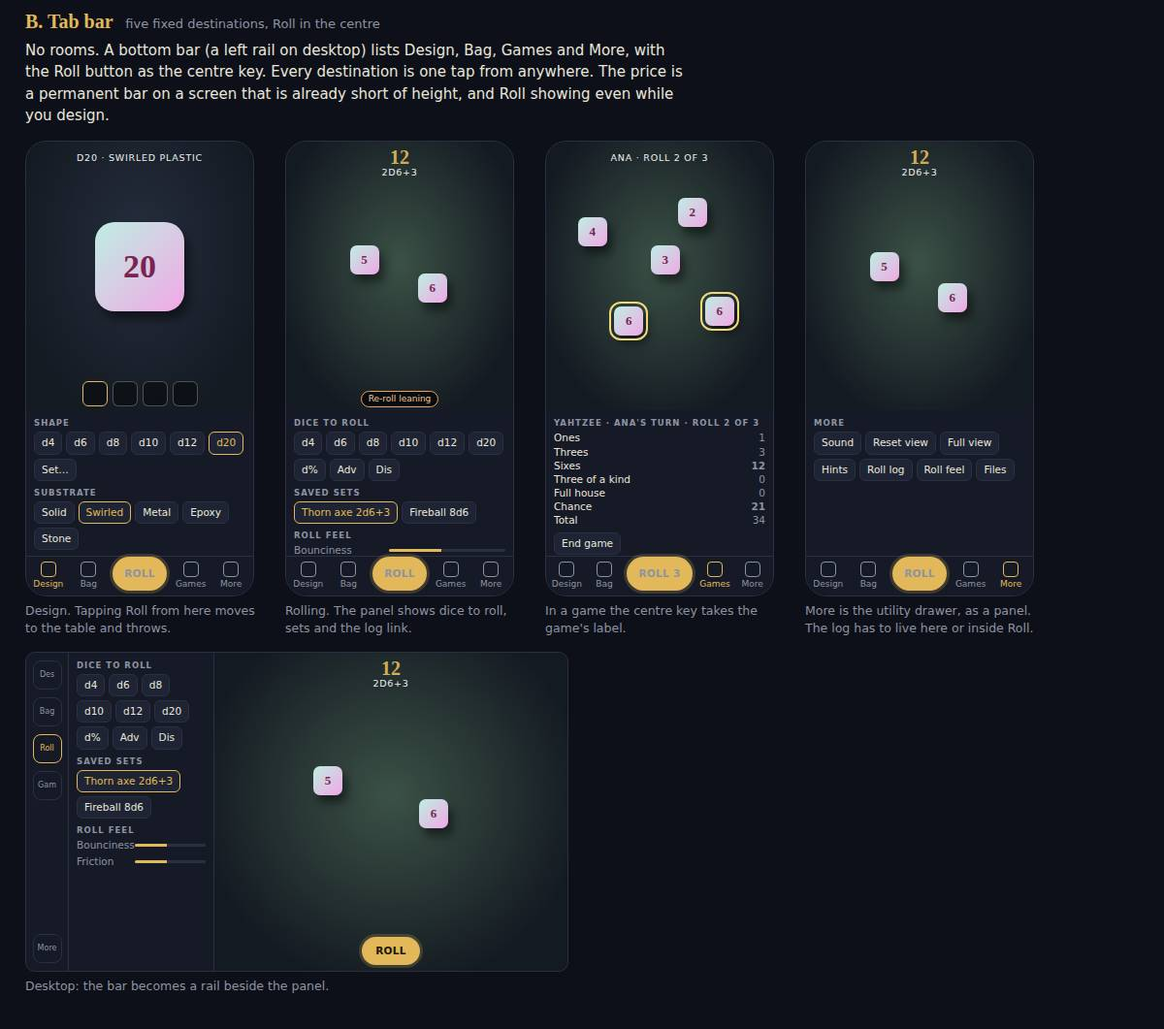
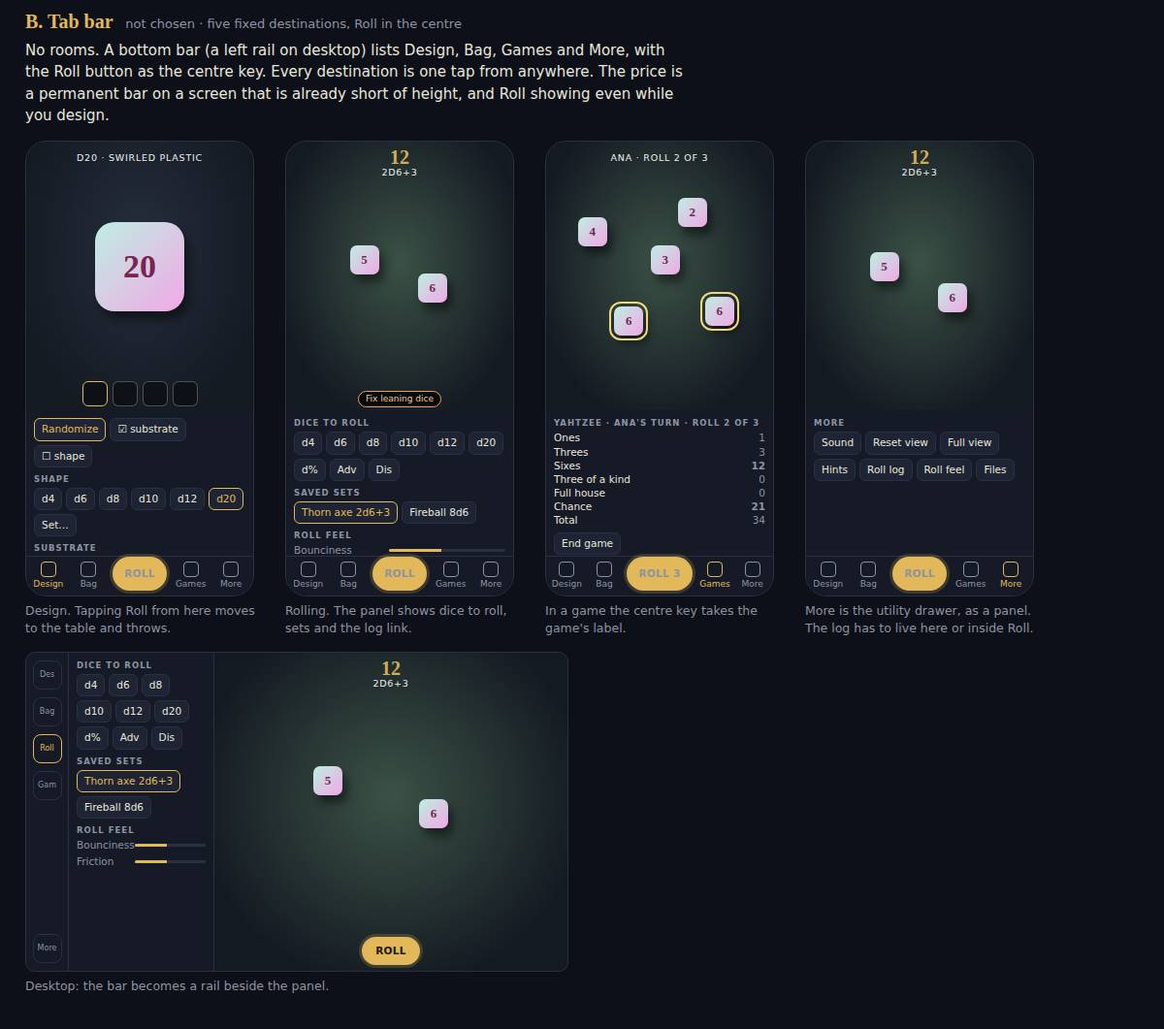
Navigation migration plan for Two rooms in 8 slices; owner decisions recorded (PD-142.38)

Changed region(s): [[0.0308, 0.4043, 0.2158, 0.5598], [0.1233, 0.0, 0.4008, 0.0311], [0.3083, 0.3732, 0.37, 0.4043]]

diff --git a/docs/design/ui-navigation-mockups/index.html b/docs/design/ui-navigation-mockups/index.html
@@ -51,7 +51,7 @@ figure{margin:0;max-width:100%}figure.wide{width:560px}figcaption{font-size:12.5
 <p class="lead">PD-142.38. Three ways to arrange the same app. Each frame is a sketch of layout and wording, not final styling. The gold button is the only roll control in its frame. The paired circles mark the one utility drawer.</p>
 <div class="key">
 <div><b>Top strip</b>Where you are, the die name or total or game status, and the drawer. Hold the middle for the top-down look, as game mode does today.</div>
-<div><b>Dock</b>One gold primary action per screen. It names what it will do: "Roll 2d6+3", "Roll 3 dice", "Randomize".</div>
+<div><b>Dock</b>The one gold Roll button, with what it will throw beside it. In a game it takes the game's label: "Roll 3".</div>
 <div><b>Drawer (paired circles)</b>Sound, pause spin, reset camera, full view, hints. Opens as a wide pill, then slides shut.</div>
 </div>
 <div id="out"></div>
@@ -62,7 +62,7 @@ const tabs=(l,on)=>`<div class="tabs">${l.map((t,i)=>`<span class="${i===on?'on'
 const dice=(l)=>l.map(([x,y,n,h])=>`<span class="die${h?' held':''}" style="left:${x}%;top:${y}%">${n}</span>`).join('');
 const D5=[[14,18,4],[58,10,2],[70,52,6,1],[30,56,6,1],[46,30,3]], D2=[[28,30,5],[58,44,6]];
 const P={
- look:`<h4>Shape</h4><div class="g"><span>d4</span><span>d6</span><span>d8</span><span>d10</span><span>d12</span><span class="on">d20</span><span>Set…</span></div><h4>Substrate</h4><div class="g"><span>Solid</span><span class="on">Swirled</span><span>Metal</span><span>Epoxy</span><span>Stone</span></div><h4>Colours</h4><div class="sl">Polish<i></i></div>`,
+ look:`<div class="g"><span style="border-color:var(--gold);color:var(--gold)">Randomize</span><span>☑ substrate</span><span>☐ shape</span></div><h4>Shape</h4><div class="g"><span>d4</span><span>d6</span><span>d8</span><span>d10</span><span>d12</span><span class="on">d20</span><span>Set…</span></div><h4>Substrate</h4><div class="g"><span>Solid</span><span class="on">Swirled</span><span>Metal</span><span>Epoxy</span><span>Stone</span></div><h4>Colours</h4><div class="sl">Polish<i></i></div>`,
  table:`<h4>Dice to roll</h4><div class="g"><span>d4</span><span>d6</span><span>d8</span><span>d10</span><span>d12</span><span>d20</span><span>d%</span><span>Adv</span><span>Dis</span></div><h4>Saved sets</h4><div class="g"><span class="on">Thorn axe 2d6+3</span><span>Fireball 8d6</span></div><h4>Roll feel</h4><div class="sl">Bounciness<i></i></div><div class="sl">Friction<i></i></div>`,
  score:`<h4>Yahtzee · Ana's turn · roll 2 of 3</h4><div class="sc"><span>Ones</span><span>1</span><span>Threes</span><span>3</span><span>Sixes</span><span class="pk">12</span><span>Three of a kind</span><span>0</span><span>Full house</span><span>0</span><span>Chance</span><span class="pk">21</span><span>Total</span><span>34</span></div><div class="g" style="margin-top:6px"><span>End game</span></div>`,
  bag:`<h4>My bag · 4 designs</h4><div class="g"><span class="on">Design 1</span><span>Jade d20</span><span>Brass set</span><span>+ Add</span></div><h4>Sets</h4><div class="g"><span>Thorn axe 2d6+3 ✎</span><span>Fireball 8d6 ✎</span><span>+ New set</span></div>`,
@@ -73,30 +73,31 @@ const mat=(cls,top,body,bottom)=>`<div class="mat ${cls}">${top}<div class="spac
 const fig=(cls,html,cap)=>`<figure class="${cls==='dk'?'wide':''}"><div class="${cls}">${html}</div><figcaption>${cap}</figcaption></figure>`;
 const dockRoll=`<div class="dock"><span class="fld">2d6+3 · Thorn axe</span><span class="go">ROLL</span></div>`;
 const dockGame=`<div class="dock"><span class="fld">2 held · tap dice to hold</span><span class="go">ROLL 3</span></div>`;
-const dockRand=`<div class="dock"><span class="sec">↶</span><span class="sec">↷</span><span style="flex:1"></span><span class="go">RANDOMIZE</span></div>`;
+const dockRand=`<div class="dock"><span class="sec">↶</span><span class="sec">↷</span><span class="shelf" style="flex:1;justify-content:flex-end;padding:0"><span class="on"></span><span></span><span></span><span style="display:grid;place-items:center;border-style:dashed;color:#fff">+</span></span></div>`;
 const S=[];
-S.push(`<h2>A. Two rooms <span class="tag">recommended</span><small>Design | Play switch, tabs per room, one dock</small></h2>
-<p>The owner's split, completed into a full model. One switch picks the room. Each room has three tabs in the panel slot (the phone's Settings | Scorecard slot, generalised). The dock holds the room's one gold action. Every screen is one switch plus one tab away.</p><div class="row">`
-+fig('ph',mat('show',strip(seg('Design','Play',0),'D20 · SWIRLED PLASTIC'),'<span class="die big">20</span>',shelf+dockRand)+tabs(['Look','Bag','Sets'],0)+`<div class="panel">${P.look}</div>`,'Design room. Randomize is the gold action here, so no Roll button shows. Shelf stays as the quick design switcher.')
-+fig('ph',mat('',strip(seg('Design','Play',1),'<b>12</b>2D6+3'),dice(D2),'<div class="chips"><span>Re-roll leaning</span></div>'+dockRoll)+tabs(['Table','Games','Log'],0)+`<div class="panel">${P.table}</div>`,'Play room, free rolling. Die chips and saved sets load the dock; the one Roll button throws. Flick, shake, R and Enter stay as gestures.')
+S.push(`<h2>A. Two rooms <span class="tag">chosen by the owner</span><small>Design | Play switch, tabs per room, one dock</small></h2>
+<p>The owner's split, completed into a full model. One switch picks the room. Each room has three tabs in the panel slot (the phone's Settings | Scorecard slot, generalised). The dock holds the one gold Roll button in the Play room; the Design room's row holds Undo, Redo and the shelf. Every screen is one switch plus one tab away.</p><div class="row">`
++fig('ph',mat('show',strip(seg('Design','Play',0),'D20 · SWIRLED PLASTIC'),'<span class="die big">20</span>',dockRand)+tabs(['Look','Bag','Sets','⌄'],0)+`<div class="panel">${P.look}</div>`,'Design room. No Roll button. Undo, Redo and the shelf with its [+] slot share one row on the mat. Randomize is in the Look tab. The ⌄ at the end of the tab row hides the pane.')
++fig('ph',mat('',strip(seg('Design','Play',1),'<b>12</b>2D6+3'),dice(D2),'<div class="chips"><span>Fix leaning dice</span></div>'+dockRoll)+tabs(['Table','Games','Log'],0)+`<div class="panel">${P.table}</div>`,'Play room, free rolling. Die chips and saved sets load the dock; the one Roll button throws. Flick, shake, R and Enter stay as gestures.')
 +fig('ph',mat('',strip(seg('Design','Play',1),'ANA · ROLL 2 OF 3'),dice(D5),dockGame)+tabs(['Table','Scorecard','Log'],1)+`<div class="panel">${P.score}</div>`,'In a game. The same dock button becomes the game\'s roll ("Roll 3"); Bank or Cash out sit to its left. The scorecard has no Roll button of its own.')
 +fig('ph',mat('',strip(seg('Design','Play',1),'<b>12</b>2D6+3'),'<span class="pill" style="position:absolute;right:6px;top:2px;z-index:2"><span>Sound</span><span>Reset view</span><span>Full view</span><span>Hints</span></span>'+dice(D2),dockRoll)+tabs(['Table','Games','Log'],0)+`<div class="panel">${P.table}</div>`,'Drawer open: a wide pill from the paired circles. Pause spin joins it in the Design room. It slides shut by itself.')
++fig('ph',mat('',strip(seg('Design','Play',1),'<b>48</b>20D4'),dice([[10,8,3],[30,5,1],[52,9,4],[74,6,2],[16,24,4],[40,22,1],[64,26,3],[80,40,2],[24,42,4,1],[50,44,3,1],[8,58,1],[36,60,2],[66,58,4],[20,76,2],[54,78,1]]),'<div class="chips"><span>Fix leaning dice</span><span>2 held · release</span></div>'+dockRoll+'<div style="text-align:center;color:#fff;opacity:.8;padding:0 0 3px;font-size:11px">⌃</div>'),'Full view: the pane is hidden and the mat fills the screen. Strip, dock and drawer stay. The ⌃ handle at the bottom edge (or Full view in the drawer, or H) brings the pane back.')
 +`</div><div class="row">`
 +fig('dk',`<div class="side"><div style="padding:8px 8px 4px">${seg('Design','Play',1)}</div>${tabs(['Table','Games','Log'],0)}<div class="panel">${P.table}</div></div><div class="main">${mat('',strip('','<b>12</b>2D6+3'),dice(D2),'<div class="dock" style="justify-content:center"><span class="fld" style="flex:0 1 240px">2d6+3 · Thorn axe</span><span class="go">ROLL</span></div>')}</div>`,'Desktop. The switch and tabs head the side panel; the mat keeps only the strip, the dock and the drawer. The floating scorecard and floating log move into the tabs.')
 +`</div>`);
-S.push(`<h2>B. Tab bar <small>five fixed destinations, Roll in the centre</small></h2>
+S.push(`<h2>B. Tab bar <small>not chosen · five fixed destinations, Roll in the centre</small></h2>
 <p>No rooms. A bottom bar (a left rail on desktop) lists Design, Bag, Games and More, with the Roll button as the centre key. Every destination is one tap from anywhere. The price is a permanent bar on a screen that is already short of height, and Roll showing even while you design.</p><div class="row">`
 +fig('ph',mat('show',strip('','D20 · SWIRLED PLASTIC',''),'<span class="die big">20</span>',shelf)+`<div class="panel">${P.look}</div><div class="bar"><span class="on">Design</span><span>Bag</span><span class="go">ROLL</span><span>Games</span><span>More</span></div>`,'Design. Tapping Roll from here moves to the table and throws.')
-+fig('ph',mat('',strip('','<b>12</b>2D6+3',''),dice(D2),'<div class="chips"><span>Re-roll leaning</span></div>')+`<div class="panel">${P.table}</div><div class="bar"><span>Design</span><span>Bag</span><span class="go">ROLL</span><span>Games</span><span>More</span></div>`,'Rolling. The panel shows dice to roll, sets and the log link.')
++fig('ph',mat('',strip('','<b>12</b>2D6+3',''),dice(D2),'<div class="chips"><span>Fix leaning dice</span></div>')+`<div class="panel">${P.table}</div><div class="bar"><span>Design</span><span>Bag</span><span class="go">ROLL</span><span>Games</span><span>More</span></div>`,'Rolling. The panel shows dice to roll, sets and the log link.')
 +fig('ph',mat('',strip('','ANA · ROLL 2 OF 3',''),dice(D5),'')+`<div class="panel">${P.score}</div><div class="bar"><span>Design</span><span>Bag</span><span class="go">ROLL 3</span><span class="on">Games</span><span>More</span></div>`,'In a game the centre key takes the game\'s label.')
 +fig('ph',mat('',strip('','<b>12</b>2D6+3',''),dice(D2),'')+`<div class="panel" style="height:150px"><h4>More</h4><div class="g"><span>Sound</span><span>Reset view</span><span>Full view</span><span>Hints</span><span>Roll log</span><span>Roll feel</span><span>Files</span></div></div><div class="bar"><span>Design</span><span>Bag</span><span class="go">ROLL</span><span>Games</span><span class="on">More</span></div>`,'More is the utility drawer, as a panel. The log has to live here or inside Roll.')
 +`</div><div class="row">`
 +fig('dk',`<div class="rail"><span>Des</span><span>Bag</span><span class="on">Roll</span><span>Gam</span><span style="margin-top:auto">More</span></div><div class="side" style="width:150px"><div class="panel">${P.table}</div></div><div class="main">${mat('',strip('','<b>12</b>2D6+3',''),dice(D2),'<div class="dock" style="justify-content:center"><span class="go">ROLL</span></div>')}</div>`,'Desktop: the bar becomes a rail beside the panel.')
 +`</div>`);
-S.push(`<h2>C. Clear mat <small>one stack menu, one Roll button, panel on demand</small></h2>
+S.push(`<h2>C. Clear mat <small>not chosen · one stack menu, one Roll button, panel on demand</small></h2>
 <p>The mat owns the screen. One stack button opens every destination and utility; the panel appears only as a sheet when asked for. The least clutter, and the best for the 20-dice crowding case, but every screen is two taps away and nothing tells a new user that the bag or games exist until the pill has slid shut.</p><div class="row">`
 +fig('ph',mat('show',strip('<span class="pill"><span>Design</span><span>Bag</span><span>Games</span><span>Log</span><span>More</span></span>','',''),'<span class="die big">20</span>','<div class="dock" style="justify-content:center"><span class="go">ROLL</span></div>'),'First seconds: the stack shows as a wide pill, then slides to the paired circles.')
-+fig('ph',mat('',strip(stack,'<b>48</b>20D4',''),dice([[10,12,3],[30,8,1],[52,14,4],[74,10,2],[16,34,4],[40,32,1],[64,36,3],[80,56,2],[24,58,4,1],[50,60,3,1],[8,78,1],[36,80,2],[66,78,4]]),'<div class="chips"><span>Re-roll leaning</span><span>2 held · release</span></div><div class="dock"><span class="fld">20d4</span><span class="go">ROLL</span></div>'),'Rolling 20d4: the whole screen is mat. Two controls and the result.')
++fig('ph',mat('',strip(stack,'<b>48</b>20D4',''),dice([[10,12,3],[30,8,1],[52,14,4],[74,10,2],[16,34,4],[40,32,1],[64,36,3],[80,56,2],[24,58,4,1],[50,60,3,1],[8,78,1],[36,80,2],[66,78,4]]),'<div class="chips"><span>Fix leaning dice</span><span>2 held · release</span></div><div class="dock"><span class="fld">20d4</span><span class="go">ROLL</span></div>'),'Rolling 20d4: the whole screen is mat. Two controls and the result.')
 +fig('ph',mat('',strip(stack,'<b>12</b>2D6+3',''),`<div class="sheet"><span>Design</span><span>Bag &amp; sets</span><span>Games</span><span>Roll log</span><span>Sound</span><span>Reset view</span><span>Hints</span><span>Settings</span></div>`+dice(D2),dockRoll),'Stack open: destinations and utilities in one grid.')
 +fig('ph',mat('',strip(stack,'ANA · ROLL 2 OF 3',''),dice(D5),dockGame)+`<div class="panel" style="border-top:1px solid var(--line)">${P.score}</div>`,'A game brings its scorecard up as a half sheet; drag it down for the full mat.')
 +`</div><div class="row">`

diff --git a/docs/design/ui-navigation-plan.md b/docs/design/ui-navigation-plan.md
@@ -1,0 +1,142 @@
+# Navigation migration plan: Two rooms (PD-142.38, deliverable 3)
+
+Status: 2026-11-14. The owner chose proposal A from [ui-navigation-proposals.md](ui-navigation-proposals.md). This plan turns it into slices that each land on `v4` alone and leave the app working. Evidence and control names (R1-R12, D1-D11) are from [ui-controls-audit.md](ui-controls-audit.md). Picture: [ui-navigation-mockups/a-two-rooms.jpg](ui-navigation-mockups/a-two-rooms.jpg).
+
+## Owner decisions (2026-11-14)
+
+1. **Two rooms**: one switch, **Design | Play**. It changes room and never throws dice.
+2. **Full view** is required: a collapse handle on the pane (right end of the tab row on phone, panel edge on desktop) hides the side/bottom pane; a matching handle at the screen edge brings it back. "Full view" is also in the drawer and on the H key. Strip, dock and drawer stay visible.
+3. **Die chips load, they do not throw.** Tap d20 loads a d20, tap again makes 2d20. Only the dock's Roll button throws.
+4. **Desktop scorecard** moves into the left panel's Scorecard tab. Nothing floats over the mat.
+5. **Randomize is not a mat action.** It stays in the Look tab with its substrate/shape checkboxes.
+6. **Undo and Redo sit on the mat in the Design room**, always available there (full view included), on one row with the shelf. Not shown in the Play room; Ctrl+Z works everywhere.
+7. **The shelf keeps its [+] slot** at the end. "Blank" and "Random" both open the same draft, differing only in the starting look.
+
+## Target layout
+
+| Part | Design room | Play room, free roll | Play room, game |
+|---|---|---|---|
+| Top strip, left | Design / Play switch (phone). On desktop the switch heads the side panel | same | same; a dot on Play while a game runs and you are in Design |
+| Top strip, middle (hold = top-down) | die name | total, formula under it | game status; mat total hidden |
+| Top strip, right | drawer | drawer | drawer |
+| Mat bottom row | Undo, Redo, shelf, [+] | dock: formula box + gold **Roll** | dock: game actions (Bank, Cash out) + hint + gold **Roll N** |
+| Above the row | none | result chips: "Fix leaning dice", "N held · release" | same |
+| Tabs | Look · Bag · Sets | Table · Games · Log | Table · Scorecard · Log |
+| Round mat buttons | none | none | none |
+
+Drawer contents (paired-circles button; opens as a wide pill, then slides shut): Sound, Reset view, Full view, Hints, and Pause spin in the Design room.
+
+Tab contents:
+
+| Tab | Holds (from today's UI) |
+|---|---|
+| Look | Randomize + options, Shape, Custom set dice, Substrate, Colours, Finish, Numbers, Relief, Filigree, Showcase spin, Export image, design name, Save/Load design |
+| Bag | design tiles with menus, + Add, Save/Load/Copy bag, "bag modified" state. Phone: an expand control opens today's full-screen sheet |
+| Sets | saved sets list, set editor, "Save the current dice as a set" |
+| Table | Dice to roll (chips incl. Adv, Dis), Saved sets (tap = load), Roll feel and sound, Shake to roll |
+| Games / Scorecard | setup; while playing: scorecard, game actions that are not Roll, End game, Rules |
+| Log | roll log with Copy, Save, Clear, roller name, labels, initiative (PD-142.14.1.8) |
+
+Keys: R and Enter = press the dock button. Space = Randomize in the Design room only. H = Full view. T = top-down. Double-click still resets the view.
+
+## Rules for every slice
+
+- One lane edits one region; post `TOUCHING` first. Lanes: **games-ui** owns mat, strip, dock, room switch, game wiring. **settings** owns the panel, tabs, drawer, quick bar, notation. **guide** owns `docs/guide/`. **design** (this lane) reviews each slice against this plan and keeps the plan current.
+- Per-feature tests only; the integrator runs a checkpoint after slices 3, 5 and 7.
+- Element ids stay where a control survives (`#snd`, `#logpanel`, `#gamepanel`, `#scorepane`, `#paneltabs`). When a control is removed, its id goes in the same slice as the spec change.
+- No slice may add a round mat button or a second roll button, even temporarily.
+
+## Slices
+
+| # | Slice | Lane | Depends on |
+|---|---|---|---|
+| 0 | Navigation test helpers | settings | none |
+| 1 | Utility drawer, Reset view, Full view | settings | 0 |
+| 2 | Dock with the one Roll button (free roll) | games-ui | 0 |
+| 3 | Game roll moves into the dock | games-ui | 2 |
+| 4 | Top strip and the Design / Play switch | games-ui | 2 |
+| 5 | Panel sorted into room tabs | settings | 1, 4 |
+| 6 | Scorecard, log and bag into tabs; last round buttons go | games-ui, then settings | 3, 5 |
+| 7 | Duplicate cleanup, guide refresh | settings, guide | 6 |
+
+Slices 1 and 2 can run in parallel (different lanes, different regions). 3 and 4 are both games-ui and run in that order.
+
+### 0. Navigation test helpers (test code only)
+
+Add to `tests/helpers/app.mjs`: `nav.toPlay()`, `nav.toDesign()`, `nav.openBag()`, `nav.openGames()`, `nav.openLog()`, `nav.openDrawer()`, `nav.roll()`, `nav.fullView(on)`, each wrapping today's selector. Switch the specs and `scripts/guide-shots.mjs` to them. Later slices then change one helper instead of many specs.
+
+- Specs touched: the 5 using `#mode`, 3 `#gamesbtn`, 4 `#bagbtn`, 2 `#logbtn`, 1 `#layout`, 2 `#snd`, 1 `#spinbtn`, and `#gamepanel button.big` where it means "roll" (8 specs).
+- Done when: no spec outside the helper names those selectors; the touched specs pass unchanged.
+
+### 1. Utility drawer, Reset view, Full view
+
+- Build the drawer per [ui-notes.md](ui-notes.md): wide pill on first show in a session, slides to the paired-circles button; tap to reopen; closes on outside tap.
+- Move Sound, Hints, Pause spin and Layout into it (keep `#snd`, `#info`, `#spinbtn` ids on the items). Pause spin shows only in the Design room.
+- New **Reset view** item calling the same code as double-click (angle and zoom of the current view).
+- **Full view**: one state replacing "hide settings" and "calm". Add the collapse handle on the pane and the restore handle at the screen edge. H toggles it. The long-press on the layout button goes.
+- Remove the panel's "Sound effects" checkbox (D3); volume and sound-set controls stay.
+- Round buttons left after this slice: Games, Bag, Log, Mode.
+- Tests: new `nav-drawer.spec.mjs` (pill then button, item count never 1, Reset view restores az/el/zoom, Full view hides the pane on both sizes and both handles restore it, drawer reachable in Full view). Update `nav.openDrawer`, `nav.fullView`, sound spec.
+
+### 2. Dock with the one Roll button (free roll)
+
+- New dock row at the bottom of the mat in roll view: the quick bar's formula box plus one gold button `#rollbtn`. Empty box = the current dice; placeholder shows what is loaded ("2d6+3 · Thorn axe").
+- Die chips leave the dock. Until slice 5 gives them the Table tab, they sit at the top of the roll-view panel. A chip tap loads (adds one die of that type to the box); it does not throw. Adv/Dis join the chips and lose the "Roll..." titles.
+- Set lightning button and "Open and roll now" become "Open" (load and go to the Play room, no throw) (R10, R11).
+- "Re-roll leaning" is reworded "Fix leaning dice" (R5).
+- The panel switch's Roll half stops re-rolling in roll view (R1 becomes a pure switch).
+- R, Enter in the box, flick and shake all go through the same function as `#rollbtn`.
+- Fixes PD-142.40's clipped quick bar on phone: the row is a box and a button, nothing scrolls.
+- Tests: new `nav-dock.spec.mjs` (exactly one visible element that throws in roll view at 1280x800 and 390x844; chip tap changes the formula and not `rollT`; Enter and R equal a click; set Open does not throw). Update quick-bar tests in the notation/group-roll specs, bag sets spec (lightning), `nav.roll`.
+
+### 3. Game roll moves into the dock
+
+- In a game the dock shows the game's secondary actions and hint on the left and the gold button with the game's label ("Roll 5", "Roll 3 under the cup"). Disabled on bot turns and pass-the-device screens.
+- Remove Roll from the desktop game panel, the phone strip and the Scorecard pane (R6-R9). The phone strip keeps status only and stays the top-down handle.
+- Bank / Cash out move beside the dock button; scoring picks, craps spots, bids and Challenge stay in the panel.
+- Tests: all 8 `#gamepanel` specs change their roll click to `nav.roll()` (one helper edit if slice 0 was thorough); `games-phone` asserts one roll control; Liar's Dice spec for the cup label; bots spec for the disabled state.
+
+### 4. Top strip and the Design / Play switch
+
+- The strip appears in every mode: switch (phone), middle text, drawer. Hold the middle for top-down in the Play room.
+- Replace the panel's Showcase | Roll with **Design | Play** (desktop: panel head; phone: strip). Remove the round mode button (R2). The switch never throws; entering Play shows the dice as they last lay, or placed unrolled the first time.
+- A running game survives a visit to Design; Play carries a dot. Both switch halves always work (fixes the dead buttons in games).
+- Design room bottom row: Undo, Redo, shelf, [+] on one row. Remove Undo/Redo from the panel. [+] menu: Blank and Random open the same draft; "From a file" stays.
+- Randomize is hidden in the Play room; Space does nothing there.
+- Tests: new `nav-rooms.spec.mjs` (switch does not change `rollT`; game state kept across Design and back; Randomize and Space inert in Play; Undo/Redo visible in Design incl. Full view; strip hold = top-down). Update `nav.toPlay/toDesign`, logic undo/redo spec, hold spec line that leaves roll view, boot/smoke specs that click `#mode`.
+
+### 5. Panel sorted into room tabs
+
+- Generalise `#paneltabs` to both sizes: Design = Look · Bag · Sets, Play = Table · Games · Log, with the collapse handle at the end of the row. The last tab per room is remembered.
+- Look and Table are today's panel sections re-sorted per the table above. "Reset to defaults" moves to the drawer.
+- Bag and Sets tabs can start as buttons that open today's sheet on the matching tab; slice 6 brings them inline.
+- Tests: update the phone tab spec (`games-phone`), settings/advanced specs that scroll to a section (use the tab first), `guide-shots.mjs` `panelAt`. New assertions in `nav-rooms.spec.mjs`: every screen reachable in at most two actions from every other, on both sizes.
+
+### 6. Scorecard, log and bag into tabs; last round buttons go
+
+- games-ui: the desktop floating game panel becomes the Scorecard tab content (`#scorepane` on both sizes); setup lives in the Games tab; the tab renames to Scorecard while a game runs and is selected when a game starts. Remove the round Games button.
+- settings: the roll log renders in the Log tab (keep `#logpanel`); remove the round Log button. Bag and Sets render inline in their tabs on desktop; phone keeps the full-screen sheet as the expanded view. Remove the round Bag button and the panel bag row (D2).
+- After this slice the mat has no round buttons.
+- Tests: `games-ui`, `games-turn-ui`, `games-resume`, `games-button` (delete or repoint), log specs, bag browser and bag sets specs via `nav.openBag/openLog/openGames`. Check the craps table fits the panel width at 1280 and 1024.
+
+### 7. Duplicate cleanup and guide refresh
+
+- One place to save, load and copy the bag: the Bag tab (D4). One formula entry per room: Look's Custom set for the design, the dock for rolling; the set editor keeps its own (D8, D9). Pencil on set rows on phone too.
+- Rewrite the hints text for the new layout.
+- guide: redo pages 01, 03, 05, 06, 08, 10 and regenerate shots; update the playtest brief's "where things are".
+- design: rerun `scripts/ui-audit.mjs` (update its state paths) and add an "after" table to the audit: round buttons 7 to 0, roll buttons on screen 9 to 1, switches 3 to 1.
+- Integrator: full regression checkpoint, then owner review on phone.
+
+## Acceptance for PD-142.38 AC #4
+
+- At 1280x800 and 390x844, in every state the audit script visits, at most one visible control throws dice, and in the Design room none does.
+- The drawer exists in every state, holds at least Sound, Reset view, Full view and Hints, and never holds one item.
+- Full view hides the pane on both sizes and is reversible from a visible handle.
+- From any screen, any other screen is at most a room switch plus a tab away.
+- No round buttons remain on the mat.
+
+## Open points
+
+- Entering Play for the first time: dice placed unrolled, or the showcase die sitting on the mat? The plan assumes placed unrolled; cheap to change in slice 4.
+- Initiative tracker and table lookup (settings, landed after the audit) are assumed to live in the Log tab and the Table tab; settings to confirm in slice 5.
+- Landscape phone (844x390) is not designed here; the pane should default to Full view there.

diff --git a/docs/design/ui-navigation-proposals.md b/docs/design/ui-navigation-proposals.md
@@ -1,6 +1,6 @@
 # Navigation and control model: proposals (PD-142.38, deliverable 2)
 
-Status: 2026-11-14, for owner review. Built on [ui-controls-audit.md](ui-controls-audit.md). Mock-ups: [ui-navigation-mockups/index.html](ui-navigation-mockups/index.html) (open at `http://localhost:8136/docs/design/ui-navigation-mockups/`), with a picture of each: [A](ui-navigation-mockups/a-two-rooms.jpg), [B](ui-navigation-mockups/b-tab-bar.jpg), [C](ui-navigation-mockups/c-clear-mat.jpg).
+Status: 2026-11-14. **Decided: the owner chose A, Two rooms** (see "Owner decisions" at the end and [ui-navigation-plan.md](ui-navigation-plan.md)). B and C are kept for the record. Built on [ui-controls-audit.md](ui-controls-audit.md). Mock-ups: [ui-navigation-mockups/index.html](ui-navigation-mockups/index.html) (open at `http://localhost:8136/docs/design/ui-navigation-mockups/`), with a picture of each: [A](ui-navigation-mockups/a-two-rooms.jpg), [B](ui-navigation-mockups/b-tab-bar.jpg), [C](ui-navigation-mockups/c-clear-mat.jpg).
 
 **Recommendation: proposal A, "Two rooms"**, with the full-mat view from C kept as an option in the drawer. Reasons are in the comparison section. Five questions for the owner are at the end.
 
@@ -170,3 +170,12 @@ B is the fallback if the owner finds two levels (room, then tab) too deep in pra
 3. **Room names:** "Design | Play" (recommended), or keep "Showcase | Roll"?
 4. **Desktop scorecard:** move into the left panel's Scorecard tab (recommended, one home on both form factors), or keep the floating panel on wide screens?
 5. **Randomize as the Design room's gold dock button** (recommended), or leave it at the top of the Look tab and give Design no dock?
+
+## Owner decisions (2026-11-14)
+
+1. **A, Two rooms.** B and C brought nothing compelling.
+2. A must include a clearly visible **full-screen view** that hides the side/bottom pane: a collapse handle on the pane, plus Full view in the drawer and the H key.
+3. Die chips **load only**; the dock's Roll button throws.
+4. Room names **Design | Play**.
+5. Desktop scorecard moves into the **left panel tab**.
+6. **Randomize is not a mat action**: it stays in the Look tab, so the Design room has no gold dock button (this replaces the "Randomize" row in the dock table above). **Undo and Redo go on the mat** in the Design room, on one row with the shelf, which keeps its [+] slot (blank and random open the same draft).

diff --git a/backlog/tasks/pd-142.38 - DESIGN-streamline-mat-navigation-and-controls-modes-drawer-one-roll-button-across-the-whole-app.md b/backlog/tasks/pd-142.38 - DESIGN-streamline-mat-navigation-and-controls-modes-drawer-one-roll-button-across-the-whole-app.md
@@ -37,8 +37,8 @@ Constraint for lanes until this lands: do not add new top-level mat buttons or n
 ## Acceptance Criteria
 <!-- AC:BEGIN -->
 - [x] #1 Control audit with duplicates marked (phone and desktop)
-- [ ] #2 Owner picks a navigation model (A|B split, utility drawer, one roll button)
-- [ ] #3 Migration plan in landable slices
+- [x] #2 Owner picks a navigation model (A|B split, utility drawer, one roll button)
+- [x] #3 Migration plan in landable slices
 - [ ] #4 Implemented: one roll button plus gesture on screen at any time; utility drawer incl. reset camera
 <!-- AC:END -->
 
@@ -50,4 +50,5 @@ Design lane 2026-11-14: control audit landed, docs/design/ui-controls-audit.md (
 Design lane 2026-11-14: proposals landed, docs/design/ui-navigation-proposals.md with mock-ups in docs/design/ui-navigation-mockups/ (A Two rooms, recommended; B Tab bar; C Clear mat). Waiting for the owner to choose (AC #2) before the migration plan.
 
 Owner decision 2026-11-14: proposal A (Two rooms: Design|Play, tabs per room, one dock, one drawer). B and C dropped. Added requirement: a clearly visible FULL-SCREEN view that hides the side/bottom pane (also a collapse handle on the pane). Open questions (chips load vs throw, room names, desktop scorecard, Randomize in dock) default to the recommendations until answered. Design lane is writing docs/design/ui-navigation-plan.md.
+Owner 2026-11-14: chose A Two rooms (Design / Play), with a visible full-screen view, load-only die chips, scorecard in the left panel tab, Randomize in the Look tab, Undo/Redo plus shelf on one mat row. Migration plan: docs/design/ui-navigation-plan.md (slices 0-7; build goes to games-ui, settings, guide lanes).
 <!-- SECTION:NOTES:END -->
